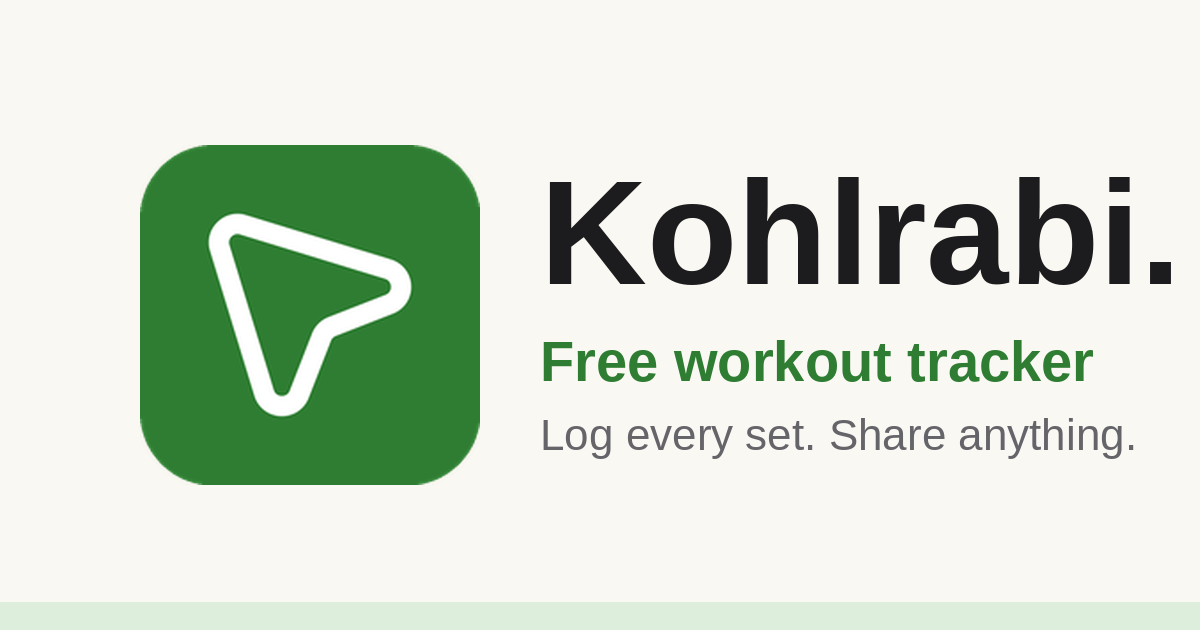
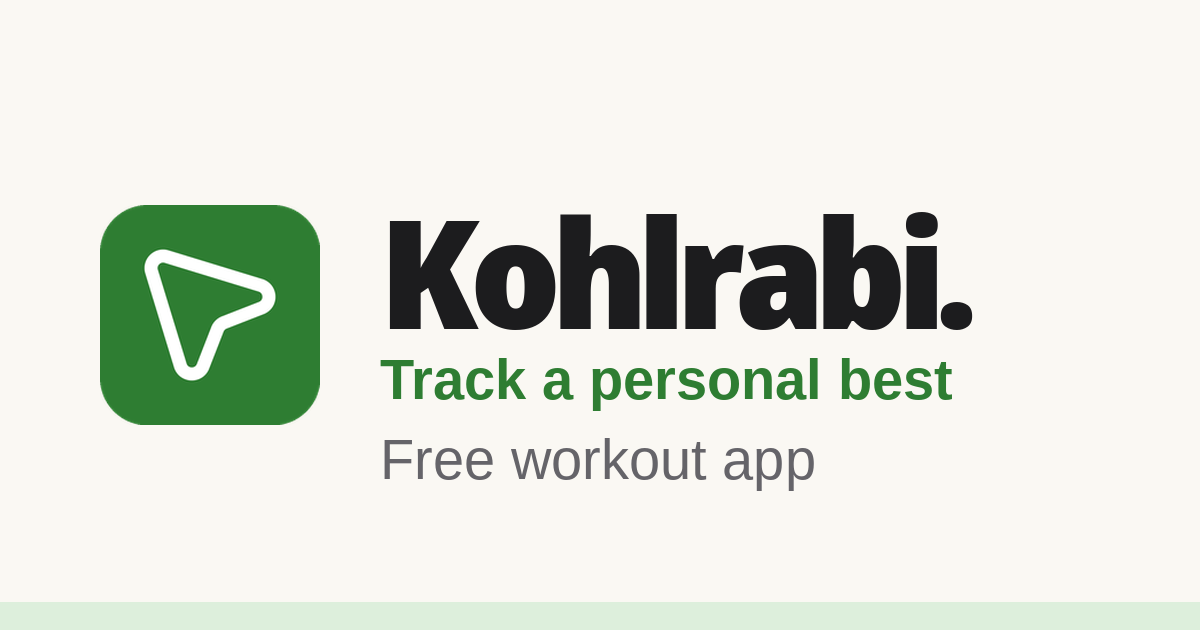
Site: header brand mark as inline SVG; new og-image share card

Changed region(s): [[0.0617, 0.2111, 0.9867, 0.7841]]

diff --git a/assets/components.js b/assets/components.js
@@ -54,7 +54,7 @@
       '<nav class="site-nav" aria-label="Primary navigation">' +
         '<div class="nav-inner">' +
           '<a class="brand" href="' + r + 'index.html" aria-label="Kohlrabi home">' +
-            '<img src="' + r + 'assets/logo-arrow.png?v=4" alt="" width="96" height="96" />' +
+            '<svg width="96" height="96" viewBox="0 0 192 192" aria-hidden="true" focusable="false"><rect width="192" height="192" rx="35" fill="#2e7d32"/><path d="M42 42L149 77L104 105L74 148Z" fill="none" stroke="#fff" stroke-width="11" stroke-linejoin="round" stroke-linecap="round"/></svg>' +
             '<span>Kohlrabi</span>' +
           '</a>' +
           '<div class="nav-controls">' +

diff --git a/assets/site.css b/assets/site.css
@@ -61,7 +61,7 @@
       letter-spacing: -.02em;
       white-space: nowrap;
     }
-    .brand img {
+    .brand img, .brand svg {
       width: 32px;
       height: 32px;
       border-radius: 9px;
@@ -1056,7 +1056,7 @@
     @media (max-width: 600px) {
       .nav-inner { height: 64px; width: calc(100% - 28px); }
       .brand { font-size: 16px; }
-      .brand img { width: 29px; height: 29px; }
+      .brand img, .brand svg { width: 29px; height: 29px; }
       .nav-links { top: 64px; }
       .hero { width: calc(100% - 32px); padding: 48px 0 62px; }
       h1 { font-size: clamp(46px, 13.8vw, 64px); max-width: none; }

diff --git a/tools/gen-og-image.py b/tools/gen-og-image.py
@@ -1,9 +1,9 @@
 #!/usr/bin/env python3
 """Regenerate assets/og-image.png (1200x630 social share preview).
 
-Keeps the card's established layout language (warm off-white, pale green
-bottom band, mark on the left, type on the right) and swaps in the current
-brand mark + name.
+Card language: warm off-white, pale green bottom band, brand mark left,
+type right. Headline matches the site hero h1 treatment (900-weight grotesk,
+-0.06em tracking, tight leading).
 """
 from pathlib import Path
 from PIL import Image, ImageDraw, ImageFont
@@ -17,34 +17,57 @@ GREEN = (0x2E, 0x7D, 0x32)
 GRAY = (0x65, 0x64, 0x69)
 BAND_H = 28
 
+BLACK = "/usr/share/fonts/truetype/noto/NotoSansDisplay-Black.ttf"
 FONT_DIR = Path("/usr/share/fonts/truetype/liberation")
 BOLD = str(FONT_DIR / "LiberationSans-Bold.ttf")
 REG = str(FONT_DIR / "LiberationSans-Regular.ttf")
+
+
+def draw_tracked(d, xy, text, font, fill, tracking):
+    """Draw text with letter-spacing (tracking in px, may be negative)."""
+    x, y = xy
+    for ch in text:
+        d.text((x, y), ch, font=font, fill=fill)
+        x += d.textlength(ch, font=font) + tracking
+    return x - tracking
+
+
+def text_width(d, text, font, tracking):
+    return sum(d.textlength(ch, font=font) + tracking for ch in text) - tracking
+
+
+def fit_font(d, text, path, size, max_w, tracking_ratio):
+    while size > 20:
+        f = ImageFont.truetype(path, size)
+        if text_width(d, text, f, tracking_ratio * size) <= max_w:
+            return f
+        size -= 4
+    return ImageFont.truetype(path, size)
+
 
 img = Image.new("RGB", (W, H), BG)
 d = ImageDraw.Draw(img)
 d.rectangle([0, H - BAND_H, W, H], fill=BAND)
 
-# Brand mark (arrow logo), 340px, vertically centered
+# Brand mark: smaller, hugging the left
+MARK = 220
 mark = Image.open(ROOT / "assets" / "logo-arrow.png").convert("RGBA")
-mark = mark.resize((340, 340), Image.LANCZOS)
-img.paste(mark, (140, (H - 340) // 2), mark)
+mark = mark.resize((MARK, MARK), Image.LANCZOS)
+img.paste(mark, (100, (H - MARK) // 2), mark)
 
-# Type block (sub-lines shrink to fit the card)
-x = 540
+# Type block
+x = 100 + MARK + 60
 max_w = W - x - 60
-d.text((x, 150), "Kohlrabi.", font=ImageFont.truetype(BOLD, 148), fill=INK)
 
-def fit(text, path, size, fill, y):
-    while size > 20:
-        f = ImageFont.truetype(path, size)
-        if d.textlength(text, font=f) <= max_w:
-            break
-        size -= 2
-    d.text((x, y), text, font=ImageFont.truetype(path, size), fill=fill)
+headline = "Kohlrabi."
+hf = fit_font(d, headline, BLACK, 150, max_w, -0.06)
+draw_tracked(d, (x, 168), headline, hf, INK, -0.06 * hf.size)
 
-fit("Free workout tracker", BOLD, 56, GREEN, 330)
-fit("Log every set. Share anything.", REG, 56, GRAY, 410)
+gf = fit_font(d, "Track a personal best", BOLD, 56, max_w, 0)
+d.text((x, 348), "Track a personal best", font=gf, fill=GREEN)
+
+sf = fit_font(d, "Free workout app", REG, 56, max_w, 0)
+d.text((x, 428), "Free workout app", font=sf, fill=GRAY)
 
 out = ROOT / "assets" / "og-image.png"
 img.save(out)
